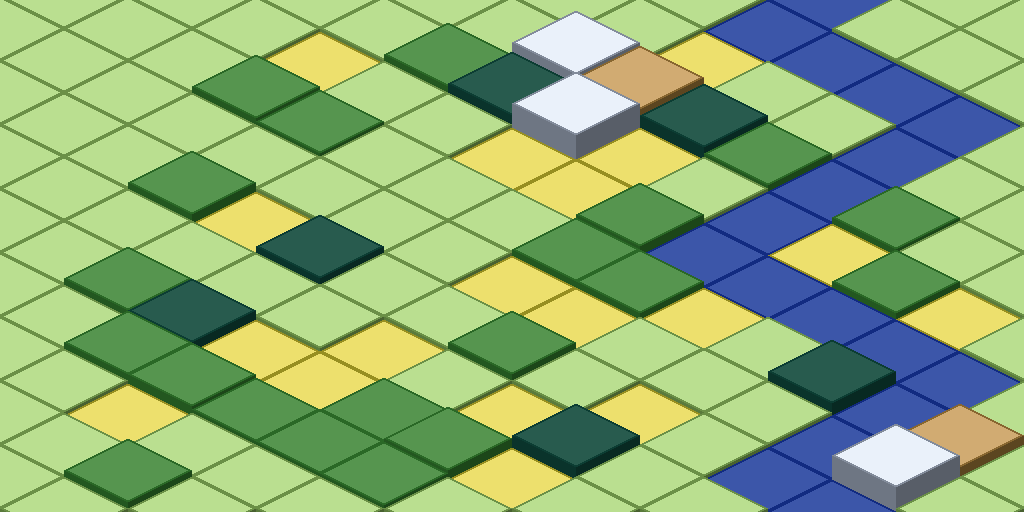
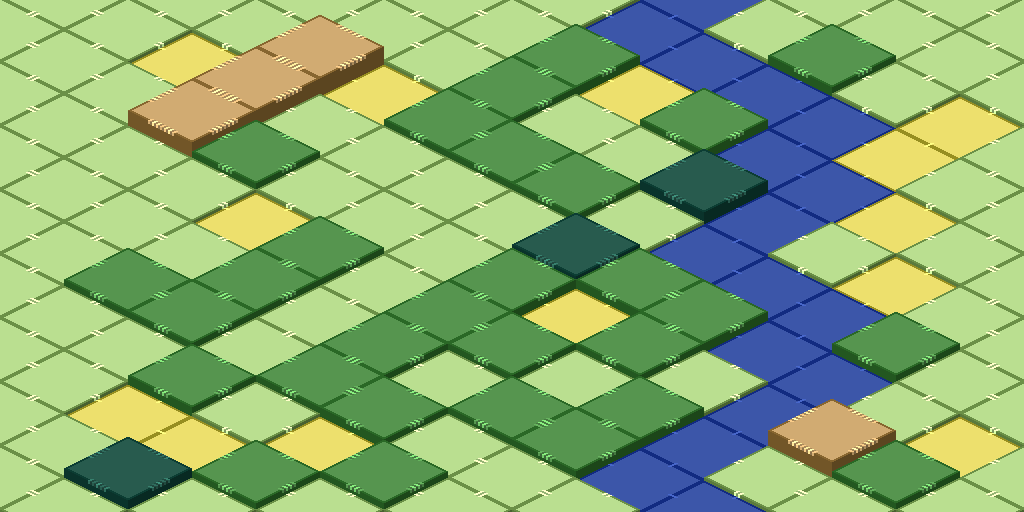
Added height markers for isometric.

diff --git a/tall/isometric.html b/tall/isometric.html
@@ -6,7 +6,7 @@ img {border:none; padding: 0px; margin-top: -64px; margin-right: 0; outline: non
     }
 body {
 	background-image: url(tiling_flat.png);
-	background-position: -40px 0px;
+	background-position: 88px 6px;
 }
 td { position:relative; padding: 0px; margin: 0px; border: none; }
 tr { padding: 0px; margin: 0px; border: none; }
@@ -27,7 +27,9 @@ p, a {color: #fff; font-family: "Arial"; font-weight: bold; background-color: #4
 .grid
 {
 	padding: 100px;
-	margin-left: 384px;
+	margin-left: 0px;
+	/*margin-left: 384px;
+	*/
 }
 .row
 {
